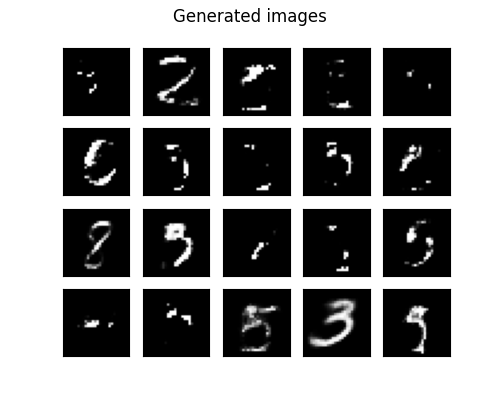
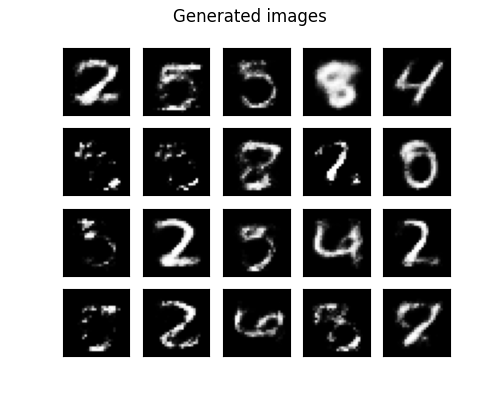
Fixed generated images quality

diff --git a/deep_generative_model.py b/deep_generative_model.py
@@ -18,7 +18,7 @@ class DeepGenerativeModel:
 
     def __init__(self):
         self.use_vae = False  # Whether to use standard AE or VAE
-        self.run_anomaly_detection = True  # Whether to run anomaly detection
+        self.run_anomaly_detection = False  # Whether to run anomaly detection
         self.stacked_dataset = False  # Whether to use mono or color data set
         self.encoded_dim = 5  # Size of encoded vector
         self.epochs = 105  # Number of epochs to train

diff --git a/auto_encoder.py b/auto_encoder.py
@@ -112,7 +112,6 @@ class AutoEncoder(ks.models.Model):
         # encoded vectors have values in the range [0.0, 1.0], but better
         # results are achieved when sampling vectors in the range [0.0, 10.0],
         # or some other interval from 0.0 to > 1.0
-        encoded_vectors *= 10
         return self.decoder(encoded_vectors).numpy()
 
     def measure_loss(self, x_test, check_range: int = 1000):
